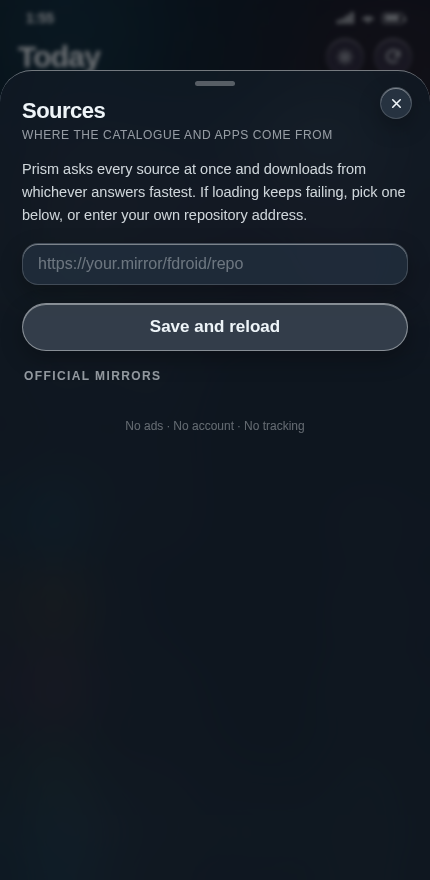
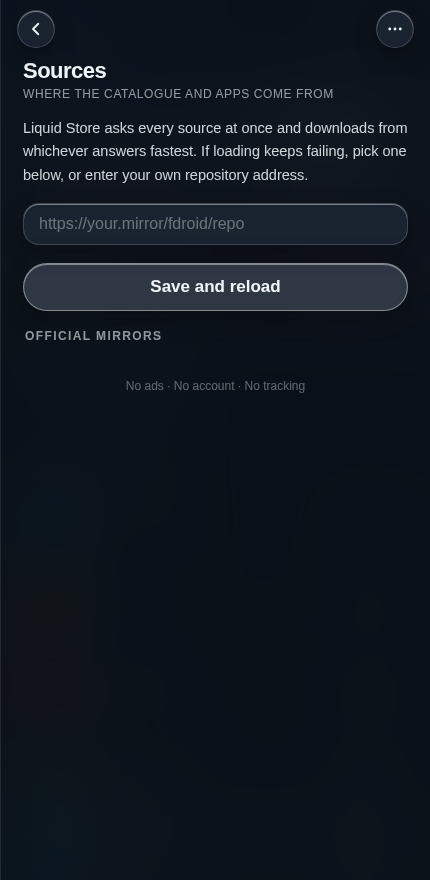
Detail is now a full-screen page, matching the liquid glass reference
Back arrow and a '...' menu in a top bar, paired action pills
(outlined secondary + filled primary), and the sheet no longer
stops short of the tab bar. Screenshots refreshed.

Changed region(s): [[0.0302, 0.0, 0.9674, 0.4909], [0.5744, 0.4295, 0.7256, 0.4909], [0.9977, 0.092, 1.0, 0.1227]]

diff --git a/assets/index.html b/assets/index.html
@@ -153,16 +153,29 @@ input{font-family:inherit}
 .tab.on .lbl{opacity:1}
 .tab.on svg{transform:translateY(-1px) scale(1.08);filter:drop-shadow(0 0 10px rgba(43,182,201,.8))}
 
-.scrim{position:absolute;inset:0;background:rgba(3,6,10,.55);backdrop-filter:blur(2px);opacity:0;visibility:hidden;transition:.3s;z-index:60}
-.scrim.on{opacity:1;visibility:visible}
-.sheet{position:absolute;left:0;right:0;bottom:0;height:92%;border-radius:32px 32px 0 0;z-index:70;
-  transform:translateY(101%);transition:transform .38s cubic-bezier(.22,.9,.28,1);display:flex;flex-direction:column;
-  background:rgba(16,24,34,.86);backdrop-filter:blur(30px) saturate(170%);-webkit-backdrop-filter:blur(30px) saturate(170%);
-  border-top:1px solid var(--edge-hi)}
+/* detail is a full-screen page that slides in from the right */
+.scrim{display:none}
+.sheet{position:absolute;inset:0;z-index:70;display:flex;flex-direction:column;
+  transform:translateX(100%);transition:transform .34s cubic-bezier(.32,.9,.3,1);
+  background:rgba(11,17,25,.94);
+  backdrop-filter:blur(30px) saturate(170%);-webkit-backdrop-filter:blur(30px) saturate(170%);
+  border-left:1px solid rgba(255,255,255,.1)}
 .sheet.on{transform:none}
-.grab{width:40px;height:5px;border-radius:3px;background:rgba(255,255,255,.3);margin:10px auto 4px}
-.sheet-body{flex:1;overflow-y:auto;padding:8px 22px 140px;scrollbar-width:none}
+.pagebar{display:flex;align-items:center;gap:10px;padding:calc(10px + var(--safe-t)) 16px 6px}
+.pagebar .spacer{flex:1}
+.pagebar .iconbtn{width:38px;height:38px}
+.sheet-body{flex:1;overflow-y:auto;padding:4px 22px 44px;scrollbar-width:none}
 .sheet-body::-webkit-scrollbar{display:none}
+/* paired actions: outlined secondary + filled primary, as in the reference */
+.acts{display:flex;gap:10px;margin:18px 0 4px}
+.pill,.pill2{flex:1;height:44px;border-radius:22px;font-size:15px;font-weight:800;
+  display:grid;place-items:center;position:relative;overflow:hidden;transition:transform .15s}
+.pill:active,.pill2:active{transform:scale(.97)}
+.pill{background:linear-gradient(180deg,#3ec6d8,#1f93a5);color:#03161b;
+  border:1px solid rgba(255,255,255,.28);box-shadow:0 8px 20px rgba(43,182,201,.32)}
+.pill2{background:var(--glass-2);border:1px solid var(--edge);color:var(--ink)}
+.pill .fill{position:absolute;left:0;top:0;bottom:0;width:0;background:rgba(0,0,0,.18);transition:width .15s linear}
+.pill span{position:relative;z-index:2}
 .sheet-head{display:flex;gap:16px;align-items:flex-start}
 .sheet-head h2{font-size:22px;font-weight:800;letter-spacing:-.5px;line-height:1.15}
 .sheet-head .dev{font-size:14px;color:var(--teal);font-weight:700;margin-top:3px}
@@ -262,10 +275,15 @@ input{font-family:inherit}
   <div class="scrim" id="scrim"></div>
 
   <div class="sheet" id="sheet">
-    <button class="x g" id="sheetClose">
-      <svg viewBox="0 0 24 24" fill="none" stroke="currentColor" stroke-width="2.6" stroke-linecap="round"><path d="M6 6l12 12M18 6 6 18"/></svg>
-    </button>
-    <div class="grab"></div>
+    <div class="pagebar">
+      <button class="iconbtn g" id="sheetClose" title="Back">
+        <svg viewBox="0 0 24 24" fill="none" stroke="currentColor" stroke-width="2.4" stroke-linecap="round" stroke-linejoin="round"><path d="M15 5l-7 7 7 7"/></svg>
+      </button>
+      <span class="spacer"></span>
+      <button class="iconbtn g" id="sheetMore" title="More">
+        <svg viewBox="0 0 24 24" fill="currentColor"><circle cx="5" cy="12" r="1.9"/><circle cx="12" cy="12" r="1.9"/><circle cx="19" cy="12" r="1.9"/></svg>
+      </button>
+    </div>
     <div class="sheet-body" id="sheetBody"></div>
   </div>
 
@@ -612,10 +630,10 @@ function openSheet(pkg){
       <div style="flex:1;min-width:0">
         <h2>${esc(a.name)}</h2>
         ${a.author?`<div class="dev">${esc(a.author)}</div>`:''}
-        <div class="cat">${esc(a.category)}${a.license?' &middot; '+esc(a.license):''}</div>
+        <div class="cat">${esc([a.category, a.license].filter(Boolean).join(' \u00b7 '))}</div>
       </div>
     </div>
-    <div class="installrow" id="sheetActions"></div>
+    <div class="acts" id="sheetActions"></div>
     ${(a.shots && a.shots.length) ? `<div class="eyebrow">Screenshots</div><div class="shots">${a.shots.map(function(c,i){
         return '<div class="shot">' + imgTagFor(c, '') + '<div class="ph"></div><span>' + (i+1) + '</span></div>';
       }).join('')}</div>` : ''}
@@ -639,14 +657,23 @@ function openSheet(pkg){
 }
 function renderSheetActions(a){
   const box = $('#sheetActions'); if(!box) return;
-  let h = getBtnHtml(a).replace('class="get','class="bigget').replace(/<button class="bigget" data-/, '<button class="bigget" data-');
-  if(a.installed){
-    h += `<button class="ghost g" data-open="${esc(a.pkg)}">Open</button>
-          <button class="ghost g" data-uninstall="${esc(a.pkg)}">Uninstall</button>`;
+  const inst = S.installing[a.pkg];
+  let primary;
+  if(inst){
+    primary = `<button class="pill" data-busy="${esc(a.pkg)}"><span class="fill" style="width:${inst.pct}%"></span><span>${inst.pct}%</span></button>`;
+  } else if(S.partial && !a.installed){
+    primary = `<button class="pill" data-busy="1" style="opacity:.55">&hellip;</button>`;
+  } else if(a.installed && a.hasUpdate){
+    primary = `<button class="pill" data-install="${esc(a.pkg)}">Update</button>`;
+  } else if(a.installed){
+    primary = `<button class="pill" data-open="${esc(a.pkg)}">Open</button>`;
   } else {
-    h += `<button class="ghost g" data-open="${esc(a.pkg)}" style="display:none"></button>`;
+    primary = `<button class="pill" data-install="${esc(a.pkg)}">Get</button>`;
   }
-  box.innerHTML = h;
+  const secondary = a.installed
+    ? `<button class="pill2" data-uninstall="${esc(a.pkg)}">Uninstall</button>`
+    : `<button class="pill2" data-share="1">Share</button>`;
+  box.innerHTML = secondary + primary;
 }
 function closeSheet(){
   $('#scrim').classList.remove('on');
@@ -950,6 +977,13 @@ document.addEventListener('click', function(e){
 });
 
 $('#sheetClose').addEventListener('click', closeSheet);
+$('#sheetMore').addEventListener('click', function(){
+  if(!S.sheetPkg) return;
+  let a = null;
+  try { a = B.detail(S.sheetPkg); } catch(e){}
+  if(a && a.source){ window.open(a.source, '_blank'); return; }
+  toast('Nothing else to show for this app');
+});
 $('#scrim').addEventListener('click', closeSheet);
 function doRefresh(){
   S.refreshing = true;
@@ -972,7 +1006,7 @@ function openSources(){
   $('#sheetBody').innerHTML =
     '<div class="sheet-head"><div style="flex:1"><h2>Sources</h2>' +
       '<div class="cat">Where the catalogue and apps come from</div></div></div>' +
-    '<div class="desc">Prism asks every source at once and downloads from whichever answers fastest. ' +
+    '<div class="desc">Liquid Store asks every source at once and downloads from whichever answers fastest. ' +
       'If loading keeps failing, pick one below, or enter your own repository address.</div>' +
     '<div class="searchbar g" style="margin:6px 0 14px">' +
       '<input id="srcInput" placeholder="https://your.mirror/fdroid/repo" autocomplete="off" spellcheck="false" value="' + esc(s.custom || '') + '">' +
